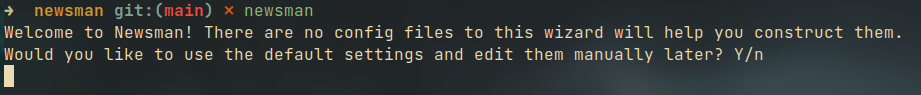
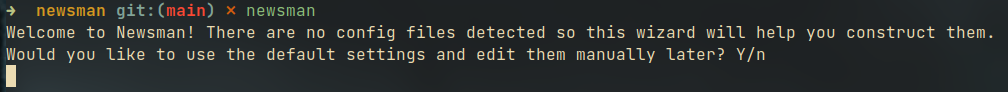
fixed small gramatical errors

diff --git a/src/main.rs b/src/main.rs
@@ -138,7 +138,7 @@ fn first_time_setup() -> anyhow::Result<()>{
     std::fs::create_dir(format!("{}/.config/newsman", &home.display())).expect("failed to make newsman dir");
     std::fs::create_dir(format!("{}/.config/newsman/newsletters", &home.display())).expect("failed to make newsletter dir");
 
-    println!("Welcome to Newsman! There are no config files to this wizard will help you construct them.");
+    println!("Welcome to Newsman! There are no config files detected so this wizard will help you construct them.");
     println!("Would you like to use the default settings and edit them manually later? Y/n");
     let mut input = String::new();
     std::io::stdin().read_line(&mut input).expect("failed to read input");
